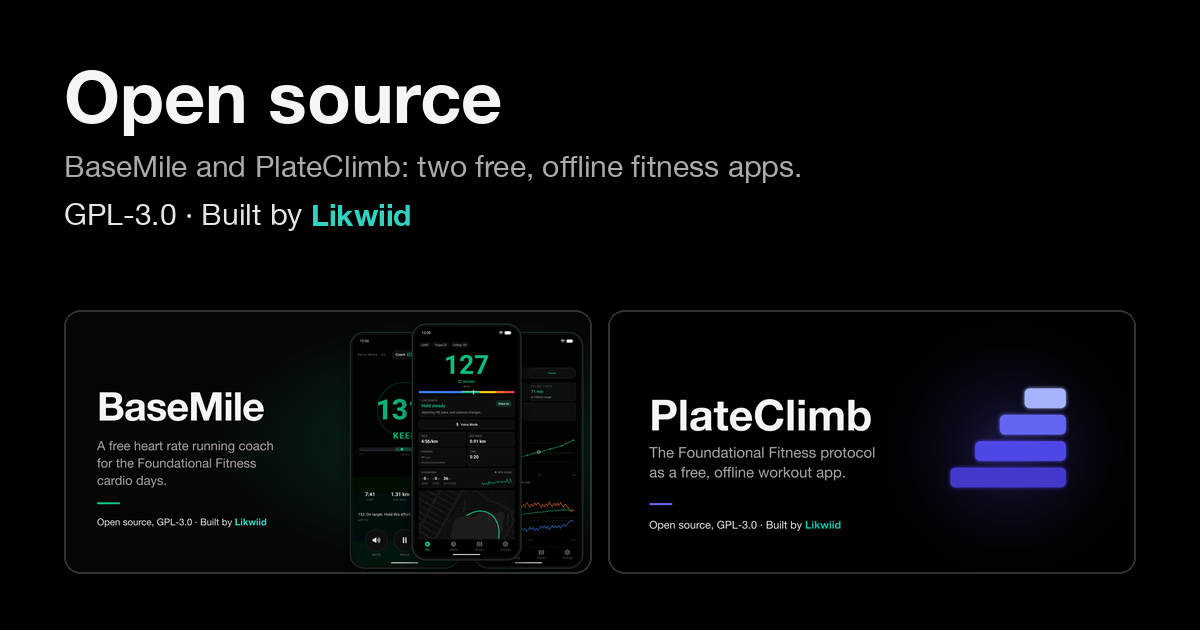
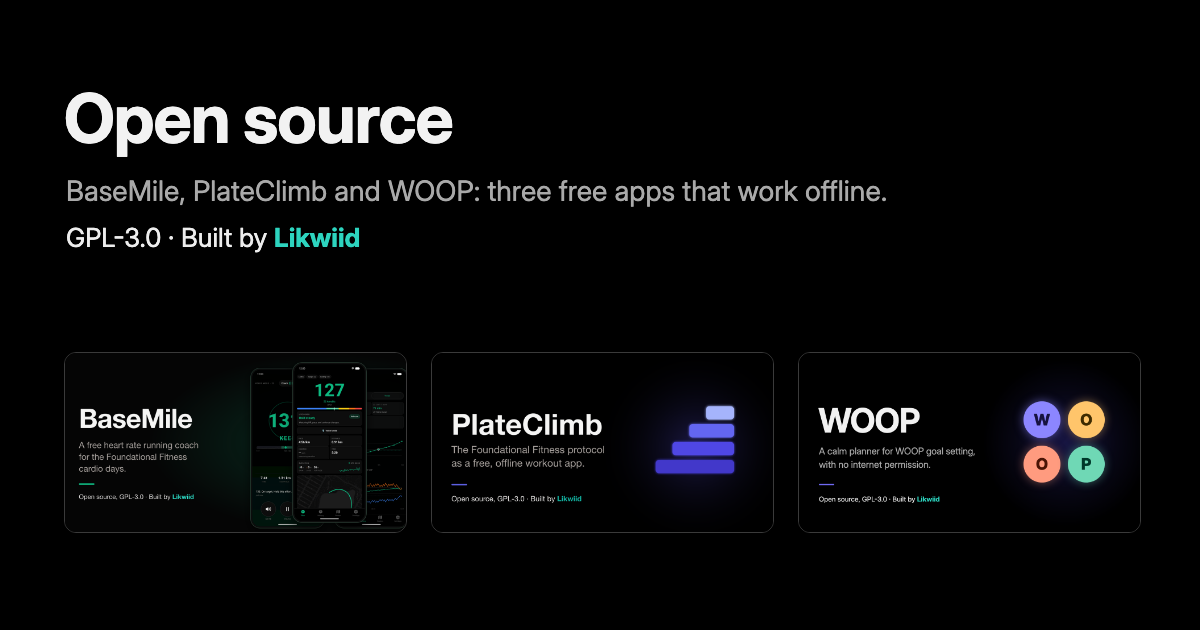
feat: add WOOP to the open source apps with per-app language and platform

diff --git a/src/data/openSource.ts b/src/data/openSource.ts
@@ -7,9 +7,12 @@
 // caseStudy: slug of the /work/ case study about the app, when there is one.
 
 export interface OpenSourceApp {
-  key: 'basemile' | 'plateclimb'
+  key: 'basemile' | 'plateclimb' | 'woop'
   name: string
   repoUrl: string
+  // Main language and platform of the source, for the SoftwareSourceCode structured data.
+  programmingLanguage: string
+  runtimePlatform: string
   // SPDX identifier of the licence, and the short label shown on the badge.
   license: 'GPL-3.0-or-later'
   licenseLabel: string
@@ -26,6 +29,8 @@ export const OPEN_SOURCE_APPS: OpenSourceApp[] = [
     key: 'basemile',
     name: 'BaseMile',
     repoUrl: 'https://github.com/likwiid/basemile',
+    programmingLanguage: 'TypeScript',
+    runtimePlatform: 'React Native',
     license: 'GPL-3.0-or-later',
     licenseLabel: 'GPL-3.0',
     stack: ['React Native', 'Expo', 'SQLite', 'Bluetooth LE'],
@@ -40,6 +45,8 @@ export const OPEN_SOURCE_APPS: OpenSourceApp[] = [
     key: 'plateclimb',
     name: 'PlateClimb',
     repoUrl: 'https://github.com/likwiid/plateclimb',
+    programmingLanguage: 'TypeScript',
+    runtimePlatform: 'React Native',
     license: 'GPL-3.0-or-later',
     licenseLabel: 'GPL-3.0',
     stack: ['React Native', 'Expo', 'SQLite', 'TypeScript'],
@@ -49,6 +56,22 @@ export const OPEN_SOURCE_APPS: OpenSourceApp[] = [
       '/images/open-source/plateclimb/workout.webp',
     ],
     caseStudy: 'plateclimb',
+  },
+  {
+    key: 'woop',
+    name: 'WOOP',
+    repoUrl: 'https://github.com/likwiid/woop',
+    programmingLanguage: 'Kotlin',
+    runtimePlatform: 'Android',
+    license: 'GPL-3.0-or-later',
+    licenseLabel: 'GPL-3.0',
+    stack: ['Kotlin', 'Jetpack Compose', 'Room', 'Glance'],
+    screenshots: [
+      '/images/open-source/woop/today.webp',
+      '/images/open-source/woop/plan.webp',
+      '/images/open-source/woop/science.webp',
+    ],
+    caseStudy: 'woop',
   },
 ]
 

diff --git a/src/entry-server.tsx b/src/entry-server.tsx
@@ -138,5 +138,12 @@ export function guideRoutes(): GuideRoute[] {
  * in scripts/prerender.mjs. Descriptions come from the locale files there.
  */
 export function openSourceApps() {
-  return OPEN_SOURCE_APPS.map(({ key, name, repoUrl, license }) => ({ key, name, repoUrl, license }))
+  return OPEN_SOURCE_APPS.map(({ key, name, repoUrl, license, programmingLanguage, runtimePlatform }) => ({
+    key,
+    name,
+    repoUrl,
+    license,
+    programmingLanguage,
+    runtimePlatform,
+  }))
 }
